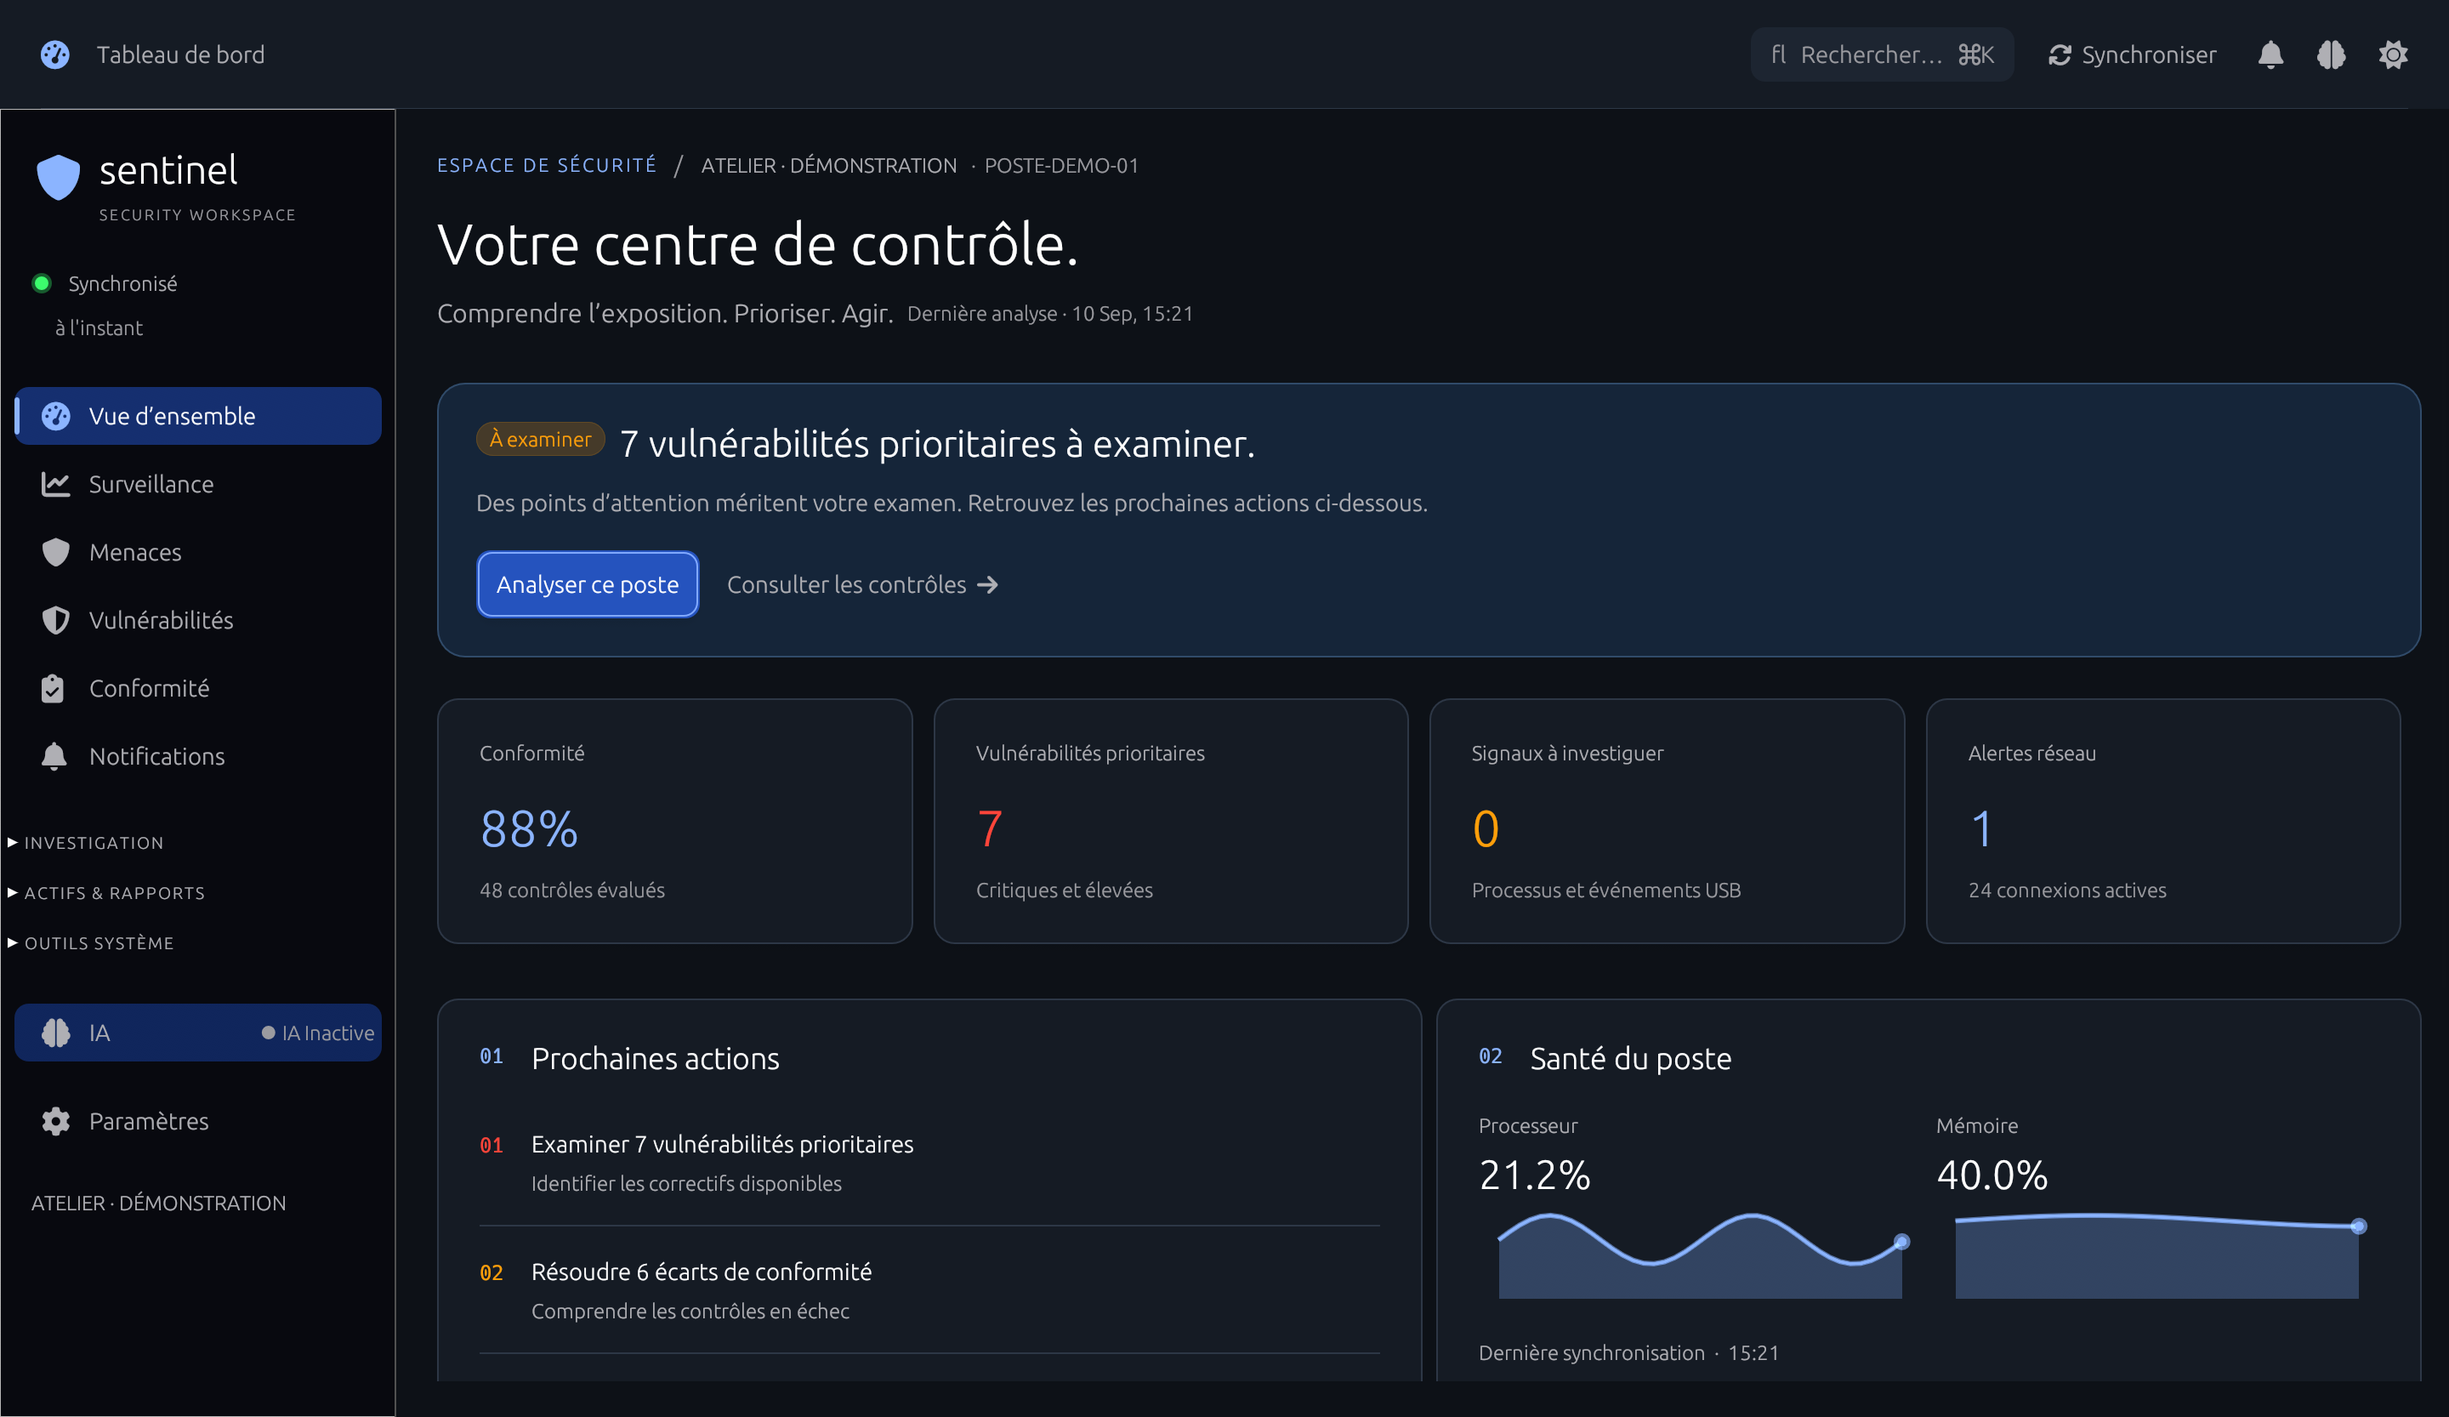
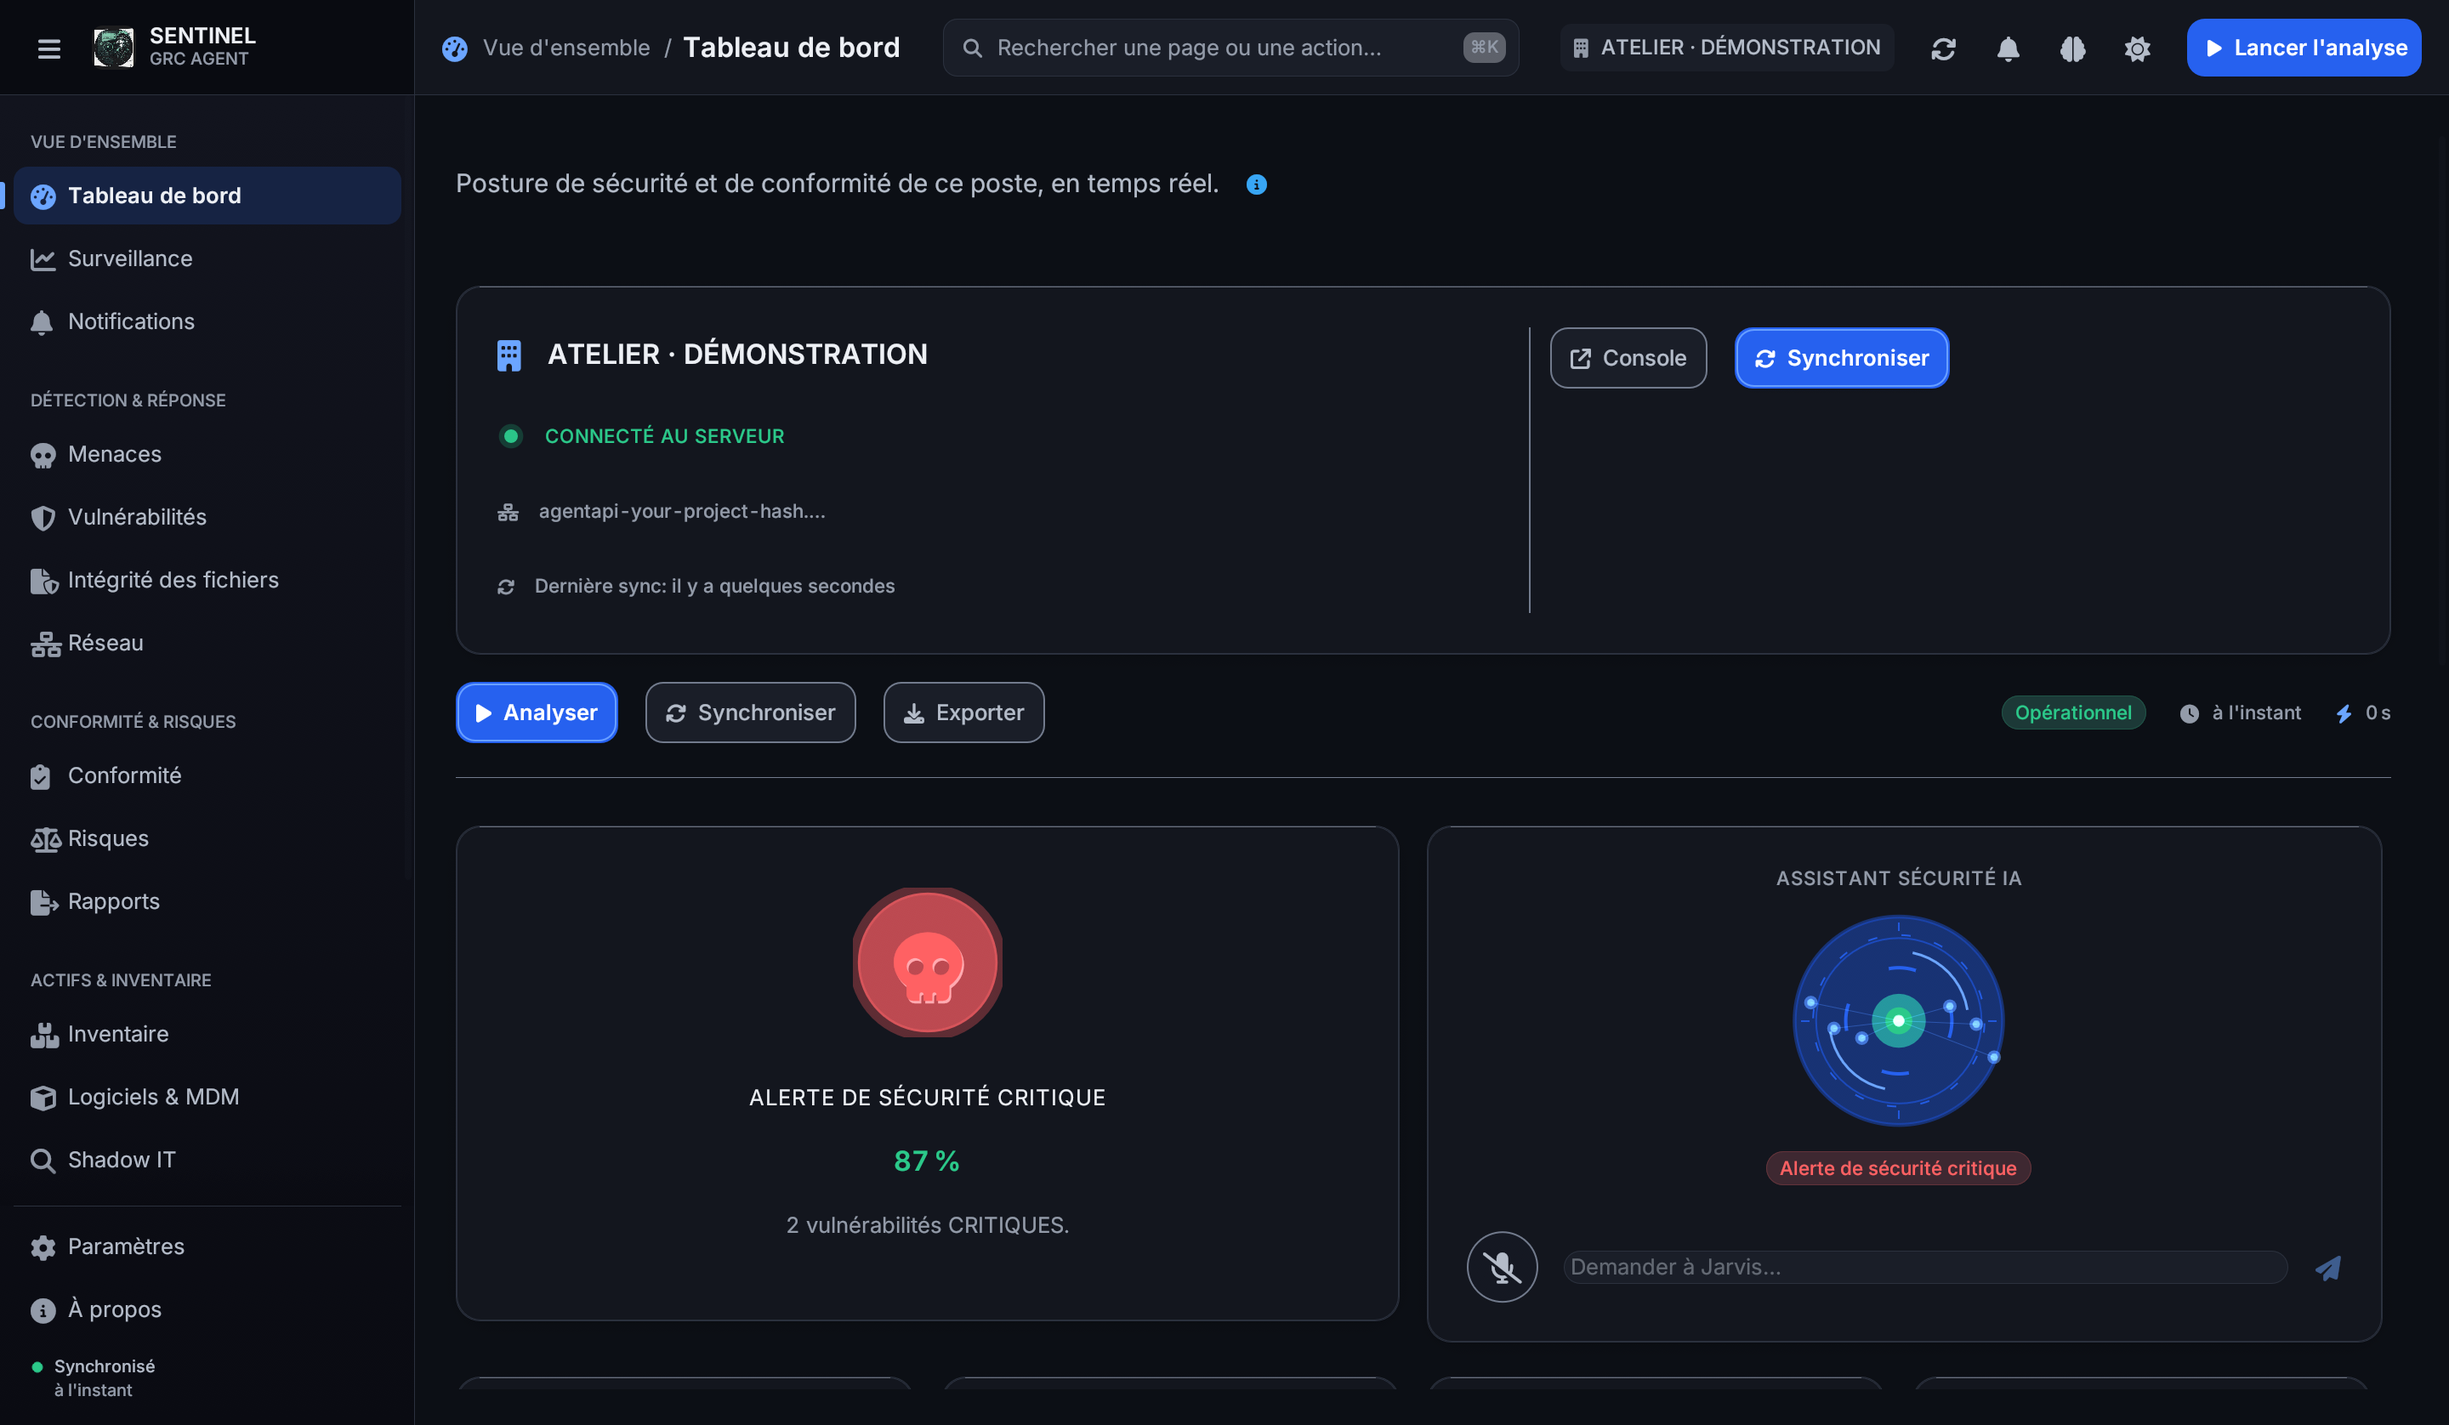
fix(gui): clarify assessment states and refine search feedback

diff --git a/crates/agent-gui/src/widgets/security_hero.rs b/crates/agent-gui/src/widgets/security_hero.rs
@@ -12,6 +12,7 @@ use egui::{Color32, RichText, Ui, Vec2};
 /// Security state categories.
 #[derive(Debug, Clone, Copy, PartialEq, Eq)]
 pub enum SecurityState {
+    Pending,
     Secure,
     Attention,
     Critical,
@@ -20,6 +21,7 @@ pub enum SecurityState {
 impl SecurityState {
     pub fn color(&self) -> Color32 {
         match self {
+            Self::Pending => theme::INFO,
             Self::Secure => theme::SUCCESS,
             Self::Attention => theme::WARNING,
             Self::Critical => theme::ERROR,
@@ -28,6 +30,7 @@ impl SecurityState {
 
     pub fn icon(&self) -> &'static str {
         match self {
+            Self::Pending => icons::SHIELD,
             Self::Secure => icons::SHIELD_CHECK,
             Self::Attention => icons::WARNING,
             Self::Critical => icons::SKULL,
@@ -36,6 +39,7 @@ impl SecurityState {
 
     pub fn title(&self) -> &'static str {
         match self {
+            Self::Pending => "Évaluation en attente",
             Self::Secure => "Poste de travail protégé",
             Self::Attention => "Vigilance recommandée",
             Self::Critical => "Alerte de sécurité critique",
@@ -113,7 +117,11 @@ pub fn security_hero(ui: &mut Ui, state: &AppState) {
             );
 
             // Score display
-            if let Some(score) = state.summary.compliance_score {
+            if let Some(score) = state
+                .summary
+                .compliance_score
+                .filter(|score| score.is_finite())
+            {
                 ui.add_space(theme::SPACE_XS);
 
                 let score_color = theme::readable_color(theme::score_color(score));
@@ -166,15 +174,18 @@ pub fn security_hero(ui: &mut Ui, state: &AppState) {
     });
 }
 
-fn determine_security_state(state: &AppState) -> SecurityState {
+pub(crate) fn determine_security_state(state: &AppState) -> SecurityState {
     // 1. Check for active threats (Critical)
     if !state.threats.suspicious_processes.is_empty() || !state.threats.usb_events.is_empty() {
         return SecurityState::Critical;
     }
 
     // 2. Check score thresholds
-    let score = state.summary.compliance_score.unwrap_or(100.0);
-    if score < 60.0 {
+    let score = state
+        .summary
+        .compliance_score
+        .filter(|score| score.is_finite());
+    if score.is_some_and(|score| score < 60.0) {
         return SecurityState::Critical;
     }
 
@@ -186,7 +197,7 @@ fn determine_security_state(state: &AppState) -> SecurityState {
     }
 
     // 4. Check for warning conditions (Attention)
-    if score < 85.0 {
+    if score.is_some_and(|score| score < 85.0) {
         return SecurityState::Attention;
     }
 
@@ -196,11 +207,18 @@ fn determine_security_state(state: &AppState) -> SecurityState {
         return SecurityState::Attention;
     }
 
-    SecurityState::Secure
+    if score.is_none() {
+        SecurityState::Pending
+    } else {
+        SecurityState::Secure
+    }
 }
 
 fn get_security_summary(state: &AppState, status: SecurityState) -> String {
     match status {
+        SecurityState::Pending => {
+            "Le niveau de protection sera disponible après la première évaluation.".to_string()
+        }
         SecurityState::Secure => {
             "Aucune menace détectée. Configuration conforme aux standards.".to_string()
         }
@@ -233,6 +251,55 @@ fn get_security_summary(state: &AppState, status: SecurityState) -> String {
                 return format!("{} vulnérabilités CRITIQUES.", vuln.critical);
             }
             "Niveau de protection insuffisant.".to_string()
+        }
+    }
+}
+
+#[cfg(test)]
+mod tests {
+    use super::*;
+
+    #[test]
+    fn missing_or_invalid_score_never_claims_protection() {
+        let mut state = AppState::default();
+        for score in [None, Some(f32::NAN), Some(f32::INFINITY)] {
+            state.summary.compliance_score = score;
+            assert_eq!(determine_security_state(&state), SecurityState::Pending);
+        }
+    }
+
+    #[test]
+    fn known_vulnerabilities_override_missing_or_good_scores() {
+        let mut state = AppState::default();
+        for score in [None, Some(100.0)] {
+            state.summary.compliance_score = score;
+            for (critical, high, expected) in [
+                (1, 0, SecurityState::Critical),
+                (0, 1, SecurityState::Attention),
+            ] {
+                state.vulnerability_summary = Some(crate::dto::GuiVulnerabilitySummary {
+                    critical,
+                    high,
+                    medium: 0,
+                    low: 0,
+                    last_scan_at: None,
+                });
+                assert_eq!(determine_security_state(&state), expected);
+            }
+        }
+    }
+
+    #[test]
+    fn score_boundaries_preserve_alert_levels() {
+        let mut state = AppState::default();
+        for (score, expected) in [
+            (59.9, SecurityState::Critical),
+            (60.0, SecurityState::Attention),
+            (84.9, SecurityState::Attention),
+            (85.0, SecurityState::Secure),
+        ] {
+            state.summary.compliance_score = Some(score);
+            assert_eq!(determine_security_state(&state), expected);
         }
     }
 }

diff --git a/crates/agent-gui/src/pages/vulnerabilities.rs b/crates/agent-gui/src/pages/vulnerabilities.rs
@@ -170,6 +170,16 @@ impl VulnerabilitiesPage {
             ui.add_space(theme::SPACE_MD);
 
             let total_findings = state.vulnerability_findings.len();
+            if total_findings == 0 {
+                ui.label(
+                    egui::RichText::new(
+                        "Aucun détail de vulnérabilité disponible pour calculer la couverture.",
+                    )
+                    .font(theme::font_body())
+                    .color(theme::text_secondary()),
+                );
+                return;
+            }
             let fix_available_count = state
                 .vulnerability_findings
                 .iter()
@@ -216,42 +226,13 @@ impl VulnerabilitiesPage {
 
             ui.add_space(theme::SPACE_MD);
 
-            // B. Remediation coverage
-            ui.horizontal(|ui: &mut egui::Ui| {
-                ui.label(
-                    egui::RichText::new(icons::SHIELD_CHECK)
-                        .color(theme::readable_color(theme::SUCCESS))
-                        .size(theme::ICON_INLINE),
-                );
-                ui.add_space(theme::SPACE_XS);
-                let remediation_pct = if total_findings > 0 {
-                    (fix_available_count as f32 / total_findings as f32) * 100.0
-                } else {
-                    100.0
-                };
-                ui.label(
-                    egui::RichText::new(format!(
-                        "Couverture de rem\u{00e9}diation : {:.0}\u{202f}%",
-                        remediation_pct
-                    ))
-                    .font(theme::font_body())
-                    .color(theme::text_primary())
-                    .strong(),
-                );
-            });
-            ui.add_space(theme::SPACE_XS);
-            let remediation_ratio = if total_findings > 0 {
-                fix_available_count as f32 / total_findings as f32
-            } else {
-                1.0
-            };
-            widgets::progress_bar_styled(
-                ui,
-                remediation_ratio,
-                widgets::ProgressStyle::Gradient,
-                None,
+            ui.label(
+                egui::RichText::new(
+                    "Un correctif disponible doit encore être appliqué puis vérifié.",
+                )
+                .font(theme::font_small())
+                .color(theme::text_tertiary()),
             );
-
             ui.add_space(theme::SPACE_MD);
 
             // C. Average CVSS score
@@ -283,7 +264,11 @@ impl VulnerabilitiesPage {
                 ui.label(
                     egui::RichText::new(format!(
                         "Score CVSS moyen : {}",
-                        crate::format::decimal(avg_cvss, 1)
+                        if cvss_count == 0 {
+                            "Non disponible".to_owned()
+                        } else {
+                            crate::format::decimal(avg_cvss, 1)
+                        }
                     ))
                     .font(theme::font_body())
                     .color(theme::text_primary())

diff --git a/crates/agent-gui/src/widgets/search_filter_bar.rs b/crates/agent-gui/src/widgets/search_filter_bar.rs
@@ -92,7 +92,7 @@ impl<'a> SearchFilterBar<'a> {
             );
             let text_rect = egui::Rect::from_min_max(
                 egui::pos2(field.left() + theme::SPACE_LG + 2.0, field.top()),
-                egui::pos2(field.right() - theme::SPACE_SM, field.bottom()),
+                egui::pos2(field.right() - 32.0, field.bottom()),
             );
             ui.allocate_new_ui(egui::UiBuilder::new().max_rect(text_rect), |ui| {
                 // Clip the editor to the framed field so a long placeholder or
@@ -111,6 +111,20 @@ impl<'a> SearchFilterBar<'a> {
                 );
             });
 
+            if !self.search.is_empty() {
+                let clear_rect = egui::Rect::from_center_size(
+                    egui::pos2(field.right() - 16.0, field.center().y),
+                    Vec2::splat(28.0),
+                );
+                if ui
+                    .put(clear_rect, egui::Button::new("×").frame(false))
+                    .on_hover_text("Effacer la recherche")
+                    .clicked()
+                {
+                    self.search.clear();
+                }
+            }
+
             ui.add_space(theme::SPACE_SM);
 
             // Chips — unified with badge design system
@@ -124,9 +138,13 @@ impl<'a> SearchFilterBar<'a> {
                 let border_color = theme::badge_border(*color);
 
                 let btn = egui::Button::new(
-                    egui::RichText::new(*label)
-                        .font(theme::font_label())
-                        .color(fg),
+                    egui::RichText::new(if *active {
+                        format!("✓ {label}")
+                    } else {
+                        (*label).to_owned()
+                    })
+                    .font(theme::font_label())
+                    .color(fg),
                 )
                 .fill(bg)
                 .stroke(egui::Stroke::new(theme::BORDER_HAIRLINE, border_color))

diff --git a/crates/agent-gui/src/pages/dashboard.rs b/crates/agent-gui/src/pages/dashboard.rs
@@ -393,8 +393,9 @@ impl DashboardPage {
     // ──────────────────────────────────────────────────────────────────────
     fn ai_posture_score_card(ui: &mut Ui, state: &mut AppState) -> Option<DashboardAction> {
         let ai_score = LLMPanel::compute_ai_score(state);
-        let risk_label = LLMPanel::risk_label(ai_score);
-        let risk_color = theme::score_color(ai_score);
+        let security_state = widgets::determine_security_state(state);
+        let risk_label = security_state.title();
+        let risk_color = security_state.color();
 
         let mut nav_action = None;
 

diff --git a/crates/agent-gui/src/widgets/mod.rs b/crates/agent-gui/src/widgets/mod.rs
@@ -17,6 +17,7 @@ mod protected_state;
 mod resource_bar;
 mod search_filter_bar;
 mod security_hero;
+pub(crate) use security_hero::determine_security_state;
 pub mod sentinel_ai_core;
 pub mod sidebar;
 pub mod splash;

diff --git a/docs/design/interface.md b/docs/design/interface.md
@@ -1,9 +1,8 @@
 # Sentinel — centre de contrôle
 
-La page d’accueil présente une synthèse contextuelle, quatre indicateurs de
-sécurité, les prochaines actions et la santé du poste. L’assistant ouvre son
-espace de travail ; les tendances 30/90 jours et l’activité restent accessibles
-dans un volet secondaire. L’export de synthèse est conservé.
+La page d’accueil rassemble l’état de sécurité, les indicateurs du poste,
+les tendances et l’assistant. La navigation et la barre supérieure utilisent
+le système visuel partagé avec les autres écrans.
 
 ## Intégration avec le système visuel
 
@@ -36,9 +35,9 @@ cargo run -p agent-gui --example visual_review -- /tmp/sentinel-light.png --ligh
 cargo run -p agent-gui --example visual_review -- /tmp/sentinel-compact.png --compact --empty
 ```
 
-La suite intégrée comporte 44 tests, dont les contrats de contraste du système
-visuel, l’activation clavier et l’absence de débordement horizontal du tableau
-de bord à 650, 900 et 1 200 points de contenu. Ces tests ne constituent pas une
+La suite intégrée vérifie notamment les contrats de contraste du système
+visuel, l’activation clavier et les seuils de l’état de sécurité, y compris
+l’absence de score. Ces tests ne constituent pas une
 certification d’accessibilité de tous les parcours.
 
 `visual_review` rend la véritable application avec des événements synthétiques
